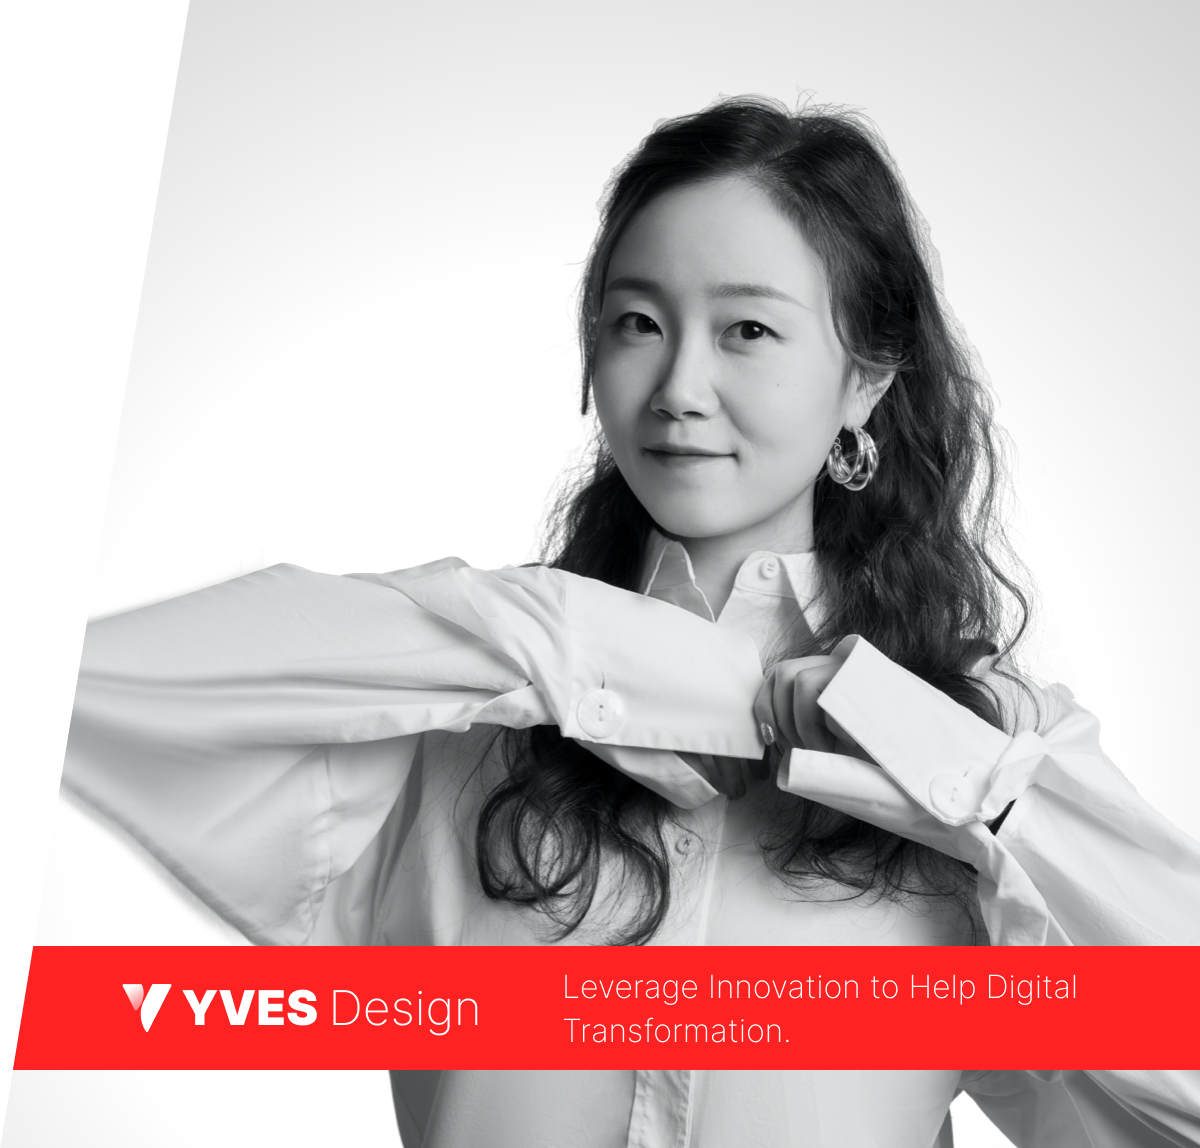
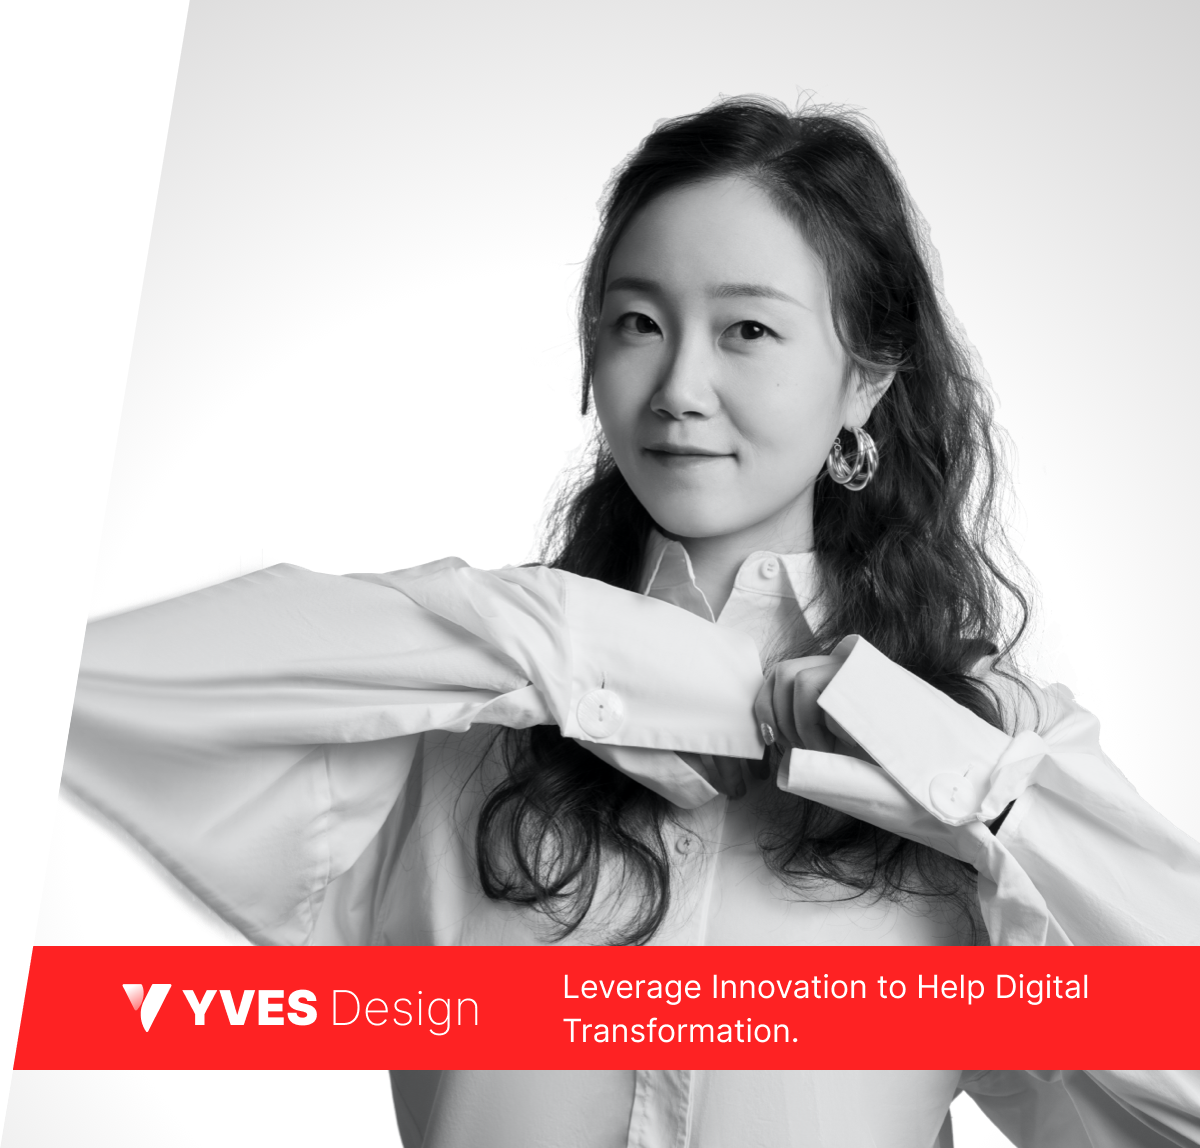
update

Changed region(s): [[0.4625, 0.8537, 0.925, 0.9146]]

diff --git a/index.html b/index.html
@@ -35,10 +35,10 @@
   <meta property="og:image" content="img/meta/web Logo.png" />
   <link rel="icon" type="image/x-icon" href="favicon.ico" />
   <link rel="stylesheet" href="css/main.css" />
-  <link rel="stylesheet" href="css/rad-icons.css" />  
+  <!-- <link rel="stylesheet" href="css/rad-icons.css" />   -->
   <link rel="stylesheet" href="css/custom.css" />
   <!-- 我自己的iconfont -->
-  <!-- <link rel="stylesheet" href="https://at.alicdn.com/t/c/font_4545731_9ztzcmr0759.css" /> -->
+  <link rel="stylesheet" href="https://at.alicdn.com/t/c/font_4545731_cy7szpj925.css" />
 
 
   <script>
@@ -313,6 +313,7 @@
             <li class="nav-item">
               <a data-scroll class="nav-link" href="#contact">Contact</a>
             </li>
+            <i class="icon-Yves iconfont"></i>
             
           </ul>
         </div>
@@ -354,10 +355,10 @@
           <div class="row platform-links">
             <div class="col-12">
               <a href="https://www.linkedin.com/in/yuwen-qin-275864114/" target="_blank">
-                <i class="icon-linkedin-line"></i>
+                <i class="icon-linkedin-line iconfont"></i>
               </a>
               <a href="https://github.com/YvonneQin" target="_blank">
-                <i class="icon-github-line"></i>
+                <i class="icon-github-line iconfont"></i>
               </a>
               
               <!-- <a href="https://twitter.com/Qinyuwen" target="_blank">
@@ -548,13 +549,13 @@
             <li style="font-size: 14px;color: #555555;">Excellent verbal and written communication, presentation, and
               problem-solving skills with attention to detail.</li>
           </ul> -->
-          <a href="https://www.linkedin.com/in/yuwen-qin-275864114/" class="btn btn-primary" target="_blank">
-            <i class="icon-linkedin-fill"></i>
+          <a href="https://www.linkedin.com/in/yuwen-qin-275864114/" class="btn btn-primary" style="height: 38px;" target="_blank">
+            <i class="icon-linkedin-fill iconfont"></i>
             Linkedin
             </a>
-          <a href="file/yuwenqin 13162435185 - Designer.pdf" class="btn btn-frameless" target="_blank">
+          <a href="file/yuwenqin 13162435185 - Designer.pdf" class="btn btn-frameless" style="height: 38px;" target="_blank">
             
-            <i class="icon-profile-fill"></i>
+            <i class="icon-profile-fill iconfont"></i>
             My Resume
           </a>
         </div>
@@ -593,7 +594,7 @@
             2022.12 - 2023.11<br />
             Researcher & Designer<br />
           </p>
-          <a href="project_DCT.html" class="btn btn-primary">Check it out<i class="icon-arrow-right"></i></a>
+          <a href="project_DCT.html" class="btn btn-primary">Check it out<i class="icon-arrow-right iconfont"></i></a>
         </div>
         <div class="col-12 col-md-7 pl-md-0 text-right">
           <img class='lozad img-responsive img-clip-left-backward'
@@ -618,7 +619,7 @@
             2021.04 - 2023.11<br />
             Researcher & Designer<br />
           </p>
-          <a href="project_Construct.html" class="btn btn-primary">Check it out<i class="icon-arrow-right"></i></a>
+          <a href="project_Construct.html" class="btn btn-primary">Check it out<i class="icon-arrow-right iconfont"></i></a>
         </div>
       </div>
 
@@ -635,7 +636,7 @@
             2022.12 - 2023.11<br />
             Designer & Researher<br />
           </p>
-          <a href="project_AI.html" class="btn btn-primary">Check it out<i class="icon-arrow-right"></i></a>
+          <a href="project_AI.html" class="btn btn-primary">Check it out<i class="icon-arrow-right iconfont"></i></a>
         </div>
         <div class="col-12 col-md-7 pl-md-0 text-right">
           <img class='lozad img-responsive img-clip-left-backward'
@@ -660,7 +661,7 @@
             2022.12 - 2023.11<br />
             Researcher & Designer<br />
           </p>
-          <a href="project_MM.html" class="btn btn-primary"style="height: 38px;">Check it out<i class="icon-arrow-right"></i></a>
+          <a href="project_MM.html" class="btn btn-primary">Check it out<i class="icon-arrow-right iconfont"></i></a>
         </div>
       </div>
 
@@ -679,7 +680,7 @@
             2022.12 - 2023.11<br />
             Researcher & Designer<br />
           </p>
-          <a href="project_POC.html" class="btn btn-primary"style="height: 38px;">Check it out<i class="icon-arrow-right"></i></a>
+          <a href="project_POC.html" class="btn btn-primary">Check it out<i class="icon-arrow-right iconfont"></i></a>
         </div>
         <div class="col-12 col-md-7 pl-md-0 text-right">
           <img class='lozad img-responsive img-clip-left-backward'
@@ -703,7 +704,7 @@
               2020年6月 - 2021年3月<br />
               项目负责人<br />
                15 min</p>
-            <a href="project1.html" class="btn btn-primary">Check it out<i class="icon-arrow-right"></i></a>
+            <a href="project1.html" class="btn btn-primary">Check it out<i class="icon-arrow-right iconfont"></i></a>
           </div>
           <div class="col-12 col-md-7 pl-md-0 text-right">
             <img class='lozad img-responsive img-clip-left-backward'
@@ -729,7 +730,7 @@
             2020年3月 - 2020年7月<br />
             Product Designer<br />
           </p>
-          <a href="project_Law.html" class="btn btn-primary"style="height: 38px;">Check it out<i class="icon-arrow-right"></i></a>
+          <a href="project_Law.html" class="btn btn-primary">Check it out<i class="icon-arrow-right iconfont"></i></a>
         </div>
 
       </div>
@@ -747,7 +748,7 @@
             2019年1月 - 2020年3月<br />
             Product Designer<br />
           </p>
-          <a href="project_Askbob.html" class="btn btn-primary">Check it out<i class="icon-arrow-right"></i></a>
+          <a href="project_Askbob.html" class="btn btn-primary">Check it out<i class="icon-arrow-right iconfont"></i></a>
         </div>
         <div class="col-12 col-md-7 pl-md-0 text-right">
           <img class='lozad img-responsive img-clip-left-backward'
@@ -772,7 +773,7 @@
             2019年10月 - 2020年1月<br />
             Product Designer<br />
              8 min</p>
-          <a href="project4.html" class="btn btn-primary">Check it out<i class="icon-arrow-right"></i></a>
+          <a href="project4.html" class="btn btn-primary">Check it out<i class="icon-arrow-right iconfont"></i></a>
         </div>
 
       </div> -->
@@ -791,7 +792,7 @@
             2019年10月 - 2020年1月<br />
             码农<br />
              8 min</p>
-          <a href="project5.html" class="btn btn-primary">Check it out<i class="icon-arrow-right"></i></a>
+          <a href="project5.html" class="btn btn-primary">Check it out<i class="icon-arrow-right iconfont"></i></a>
         </div>
         <div class="col-12 col-md-7 pl-md-0 text-right">
           <img class='lozad img-responsive img-clip-left-backward'
@@ -815,8 +816,8 @@
           <p class="lead" style="padding-top: 0px;margin-bottom: 8px;">
             2016年1月<br />
           </p>
-          <a href="project_Gradute.html" class="btn btn-primary">Check it out&nbsp; (Video included)<i
-              class="icon-arrow-right"></i></a>
+          <a href="project_Gradute.html" class="btn btn-primary">Check it out ( Video included )<i
+              class="icon-arrow-right iconfont"></i></a>
         </div>
 
       </div>
@@ -834,7 +835,7 @@
             2019年10月 - 2020年1月<br />
             Product Designer<br />
           </p>
-          <a href="project_COE.html" class="btn btn-primary">Check it out<i class="icon-arrow-right"></i></a>
+          <a href="project_COE.html" class="btn btn-primary">Check it out<i class="icon-arrow-right iconfont"></i></a>
         </div>
         <div class="col-12 col-md-7 pl-md-0 text-right">
           <img class='lozad img-responsive img-clip-left-backward'

diff --git a/css/custom.css b/css/custom.css
@@ -104,9 +104,9 @@ h3 {
 
 .clients__item {
     background-color: var(--grey-text-03-hover-fill);
-    color: var(--grey-text-85-primary);
+    color: var(--grey-text-67-paragraph);
     font-size: var(--base-en-16);
-    padding: var(--l);
+    padding: var(--s)var(--l);
     margin-right: 8px;
 }
 
@@ -168,11 +168,11 @@ h3 {
     font-family: var(--font-families-inter);
     padding-top: var(--l);
     padding-bottom: 8px;
-    font-size: 16px;
+    font-size: 14px;
     color: var(--grey-text-85-primary);
     letter-spacing: 0;
     text-align: justify;
-    line-height: 28px;
+    line-height: 26px;
     font-weight: 400;
 }
 .lead2 {
@@ -275,5 +275,36 @@ h3 {
 }
 
 .iconfont {
-    font-size: 20px !important;
+    font-size: 20px!important;
+    font-style: normal;
+    font-weight: normal;
+    /* speak: none; */
+
+    display: inline-block;
+    text-decoration: inherit;
+    width: 1em;
+    margin-right: .2em;
+    text-align: center;
+    /* opacity: .8; */
+
+    /* For safety - reset parent styles, that can break glyph codes*/
+    font-variant: normal;
+    text-transform: none;
+
+    /* fix buttons height, for twitter bootstrap */
+    line-height: 1em;
+
+    /* Animation center compensation - margins should be symmetric */
+    /* remove if not needed */
+    margin-left: .2em;
+
+    /* you can be more comfortable with increased icons size */
+    /* font-size: 120%; */
+
+    /* Font smoothing. That was taken from TWBS */
+    -webkit-font-smoothing: antialiased;
+    -moz-osx-font-smoothing: grayscale;
+
+    /* Uncomment for 3D effect */
+    /* text-shadow: 1px 1px 1px rgba(127, 127, 127, 0.3); */
 }

diff --git a/css/main.css b/css/main.css
@@ -1110,7 +1110,7 @@ input[type="date"],
 input[type="datetime-local"],
 input[type="month"],
 input[type="time"] {
-  -webkit-appearance: listbox;
+  /* -webkit-appearance: listbox; */
 }
 
 textarea {
@@ -7646,7 +7646,7 @@ a.close.disabled {
 }
 
 .bg-primary {
-  background-color: var(--grey-text-03-hover-fill) !important;
+  background-color: var(--palette-neutral-neural-1) !important;
 }
 
 a.bg-primary:focus,
@@ -11857,13 +11857,13 @@ span a:hover {
   white-space: nowrap;
   font-weight: 400;
   font-size: 12px;
-  padding: 6px var(--l);
+  padding: 2px var(--l);
   border-radius: 50rem;
 }
 
 .btn [class^="icon-"] {
   font-size: 16px;
-  margin-right: 9px;
+  margin-right: 8px;
 }
 
 .btn [class^="icon-"]::before {
@@ -11872,7 +11872,8 @@ span a:hover {
 }
 
 .btn [class^="icon-arrow-right"] {
-  margin-left: 6px;
+    
+    margin-left: 8px;
   margin-right: 0;
 }
 
@@ -12378,7 +12379,7 @@ html body {
 }
 
 .clients__item {
-  opacity: 0.5;
+  /* opacity: 0.5; */
   margin-bottom: 30px;
   margin-left: 20px;
   -webkit-transition-property: opacity;
@@ -13200,7 +13201,7 @@ textarea:focus {
 
 .rad-showcase .platform-links [class^="icon-"] {
   margin-right: 5px;
-  font-size: 17px;
+  font-size: 16px;
   color: #000;
 }
 
@@ -13219,7 +13220,7 @@ textarea:focus {
 
 @media (min-width: 992px) {
   .rad-showcase .platform-links [class^="icon-"] {
-    font-size: 19px;
+    font-size: 20px;
     margin-right: 10px;
   }
 }

diff --git a/css/rad-icons.css b/css/rad-icons.css
@@ -26,7 +26,7 @@
   font-family: "rad-icons";
   font-style: normal;
   font-weight: normal;
-  speak: none;
+  /* speak: none; */
 
   display: inline-block;
   text-decoration: inherit;
